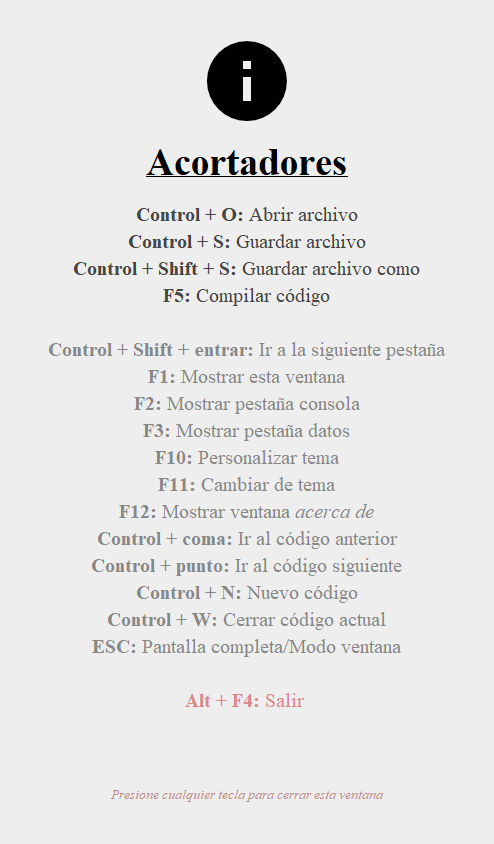
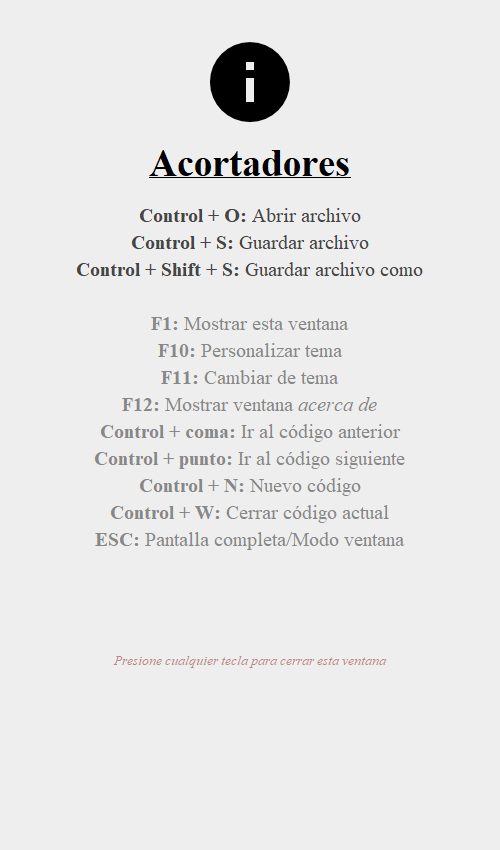
actualizando cuadro de ayuda
olvidé quitar los acortadores del cuadro de ayuda, también actualicé la imagen que sale en el readme

Changed region(s): [[0.0911, 0.2464, 0.9109, 0.8626], [0.2429, 0.9242, 0.7591, 0.955], [0.3036, 0.1848, 0.6984, 0.2156]]

diff --git a/src/interfaz/Ayuda.java b/src/interfaz/Ayuda.java
@@ -45,9 +45,6 @@ public class Ayuda extends JFrame implements FocusListener, KeyListener {
 				+ ".importante {"
 				+ "		color: #454545;"
 				+ "}"
-				+ ".salir {"
-				+ "		color: #DD8888;"
-				+ "}"
 				+ ".exit {"
 				+ "		color: #BB8888;"
 				+ "		font-style: italic;"
@@ -72,18 +69,10 @@ public class Ayuda extends JFrame implements FocusListener, KeyListener {
 				+ "			Guardar archivo<br />"
 				+ "			<strong>Control + Shift + S: </strong>"
 				+ "			Guardar archivo como<br />"
-				+ "			<strong>F5: </strong>"
-				+ "			Compilar código<br />"
 				+ "		</span>"
 				+ "		<br />"
-				+ "		<strong>Control + Shift + entrar: </strong>"								
-				+ "		Ir a la siguiente pestaña<br />"
 				+ "		<strong>F1: </strong>"
 				+ "		Mostrar esta ventana<br />"
-				+ "		<strong>F2: </strong>"
-				+ "		Mostrar pestaña consola<br />"
-				+ "		<strong>F3: </strong>"								
-				+ "		Mostrar pestaña datos<br />"
 				+ "		<strong>F10: </strong>"
 				+ "		Personalizar tema<br />"
 				+ "		<strong>F11: </strong>"
@@ -101,10 +90,6 @@ public class Ayuda extends JFrame implements FocusListener, KeyListener {
 				+ "		<strong>ESC: </strong>"								
 				+ "		Pantalla completa/Modo ventana<br />"
 				+ "		<br />"
-				+ "		<span class=\"salir\">"
-				+ "			<strong>Alt + F4: </strong>"
-				+ "			Salir"
-				+ "		</span>"
 				+ "</p>"
 				+ "<br />"
 				+ "<br />"

diff --git a/src/interfaz/Escuchadores.java b/src/interfaz/Escuchadores.java
@@ -196,6 +196,7 @@ public class Escuchadores implements Serializable, ActionListener, KeyListener, 
 			return;
 		}
 		if(evt.getSource() == vista.salir) {
+			// vista.guardarSesion();
 			System.exit(0);
 		}
 		if(evt.getSource() == vista.personalizarTema) {
